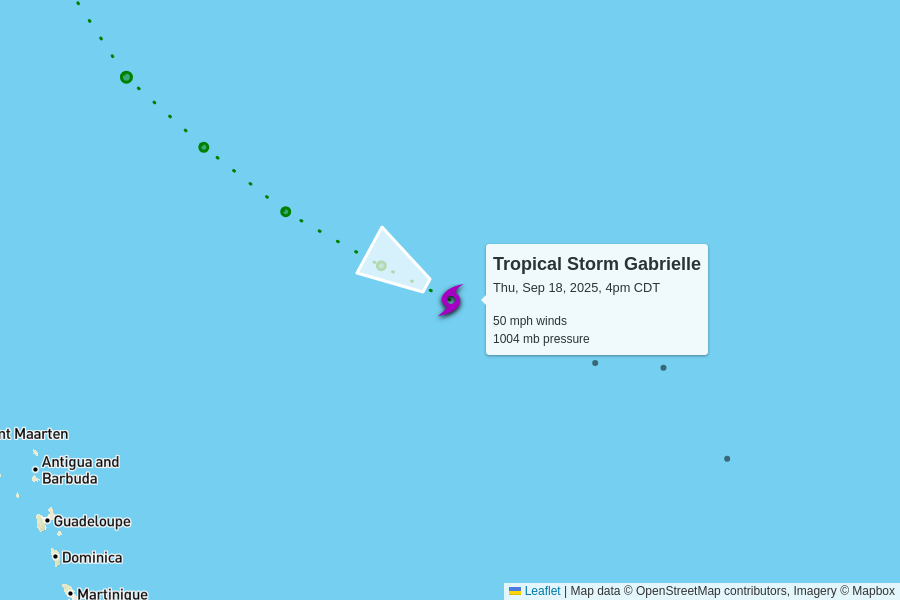
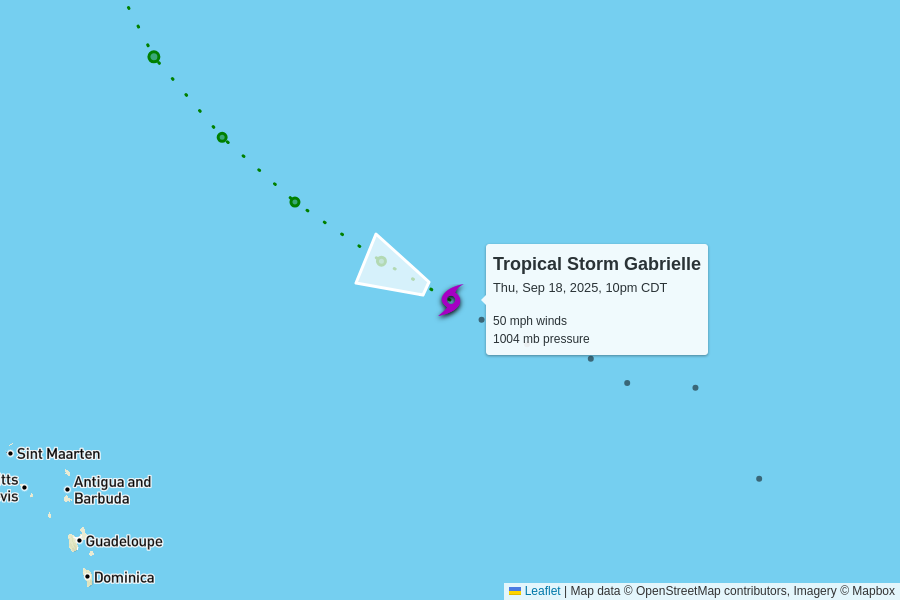
automatic update

diff --git a/docs/index.html b/docs/index.html
@@ -102,7 +102,7 @@
         <td colspan="6" class="storm category-0" >
           <h2>
             Tropical Storm Gabrielle
-            <p class="updated">last updated <span data-time>2025-09-18T21:00:00.000Z</span></p>
+            <p class="updated">last updated <span data-time>2025-09-19T03:00:00.000Z</span></p>
           </h2>
         </td>
       </tr>
@@ -120,9 +120,9 @@
         <td>50 mph<br>0 mph since last update</td>
         <td>1004 mb<br>0 mb since last update</td>
         <td>
-          13 mph to the west-northwest
+          12 mph to the west-northwest
           <br/>
-          <span style="display: inline-block; font-size: 1.5em; transform: rotate(300deg);">↑</span>
+          <span style="display: inline-block; font-size: 1.5em; transform: rotate(295deg);">↑</span>
         </td>
         <td><a href="https://raw.githubusercontent.com/mgwalker/atlantic-hurricanes/main/data/csv/AL072025.csv">AL072025.csv</a></td>
         <td><a href="https://www.nhc.noaa.gov/archive/2025/GABRIELLE.shtml?">NHC advisories</a></td>
